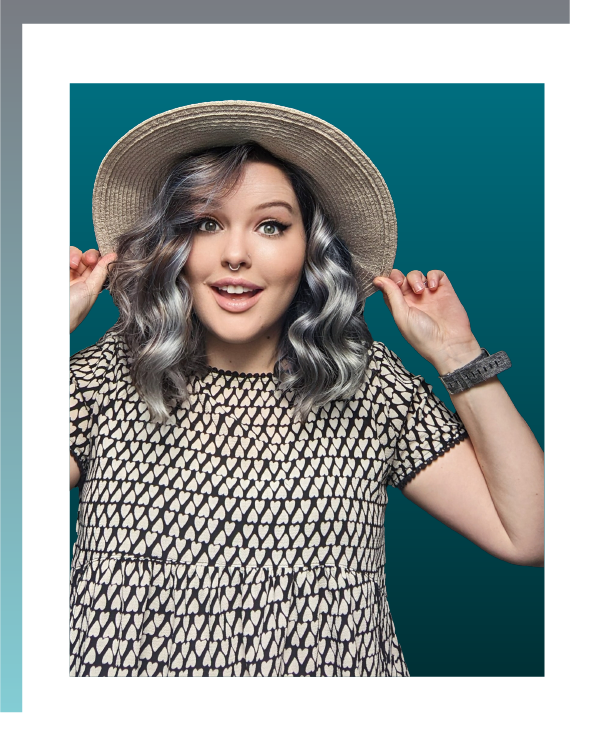
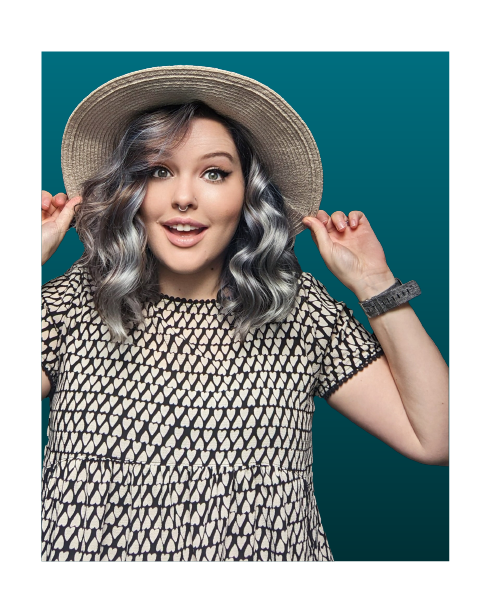
update sizing for better scalability

diff --git a/assets/css/style.css b/assets/css/style.css
@@ -52,7 +52,18 @@ body {
     flex-direction: column;
     justify-content: flex-start;
     align-content: center;
-    min-height: 100vh;
+    width: 100%;
+}
+
+header {
+    width: 100%;
+}
+
+/* navigation bar */
+nav {
+    text-align: right;
+    margin-top: 30px;
+    padding: 5px 125px;
 }
 
 /* navigation bar links */
@@ -66,13 +77,6 @@ a {
 /* link change color with hover */
 a:hover {
     color: var(--mid-color-vibrant);
-}
-
-/* navigation bar */
-nav {
-    text-align: right;
-    margin-top: 30px;
-    padding: 5px 125px;
 }
 
 #nav-toggle {
@@ -90,7 +94,7 @@ nav {
 
 /* bar behind the name and title */
 #header-bar {
-    min-width: 1920px;
+    width: 100%;
     margin: 125px auto;
     height: 260px;
     margin: 25px auto;
@@ -121,6 +125,7 @@ nav {
 #Portfolio-Picture {
     position: relative;
     margin: -380px 20px 10px 55px;
+    box-shadow: -10px -10px var(--mid-color-neutral-transparent);
 }
 
 .info-section-divider {
@@ -132,7 +137,7 @@ nav {
     bottom: 160px;
     left: 725px;
     margin: 0px;
-    width: 1150px;
+    width: 65%;
 }
 
 /* info title font size */
@@ -181,7 +186,7 @@ nav {
     top: 800px;
     left: 80px;
     margin: 0px;
-    width: 1800px;
+    width: 100%;
 }
 
 /* my work card sections */
@@ -224,7 +229,7 @@ nav {
     top: 2440px;
     left: 80px;
     margin: 0px;
-    width: 1800px;
+    width: 100%;
 }
 
 .contact-info {
@@ -258,13 +263,103 @@ footer {
     top: 2800px;
     left: 80px;
     margin: 0px;
-    width: 1800px;
+    width: 100%;
 }
 
 /* media responsive - tablet */
-@media screen and (max-width: 1286px) {
+@media screen and (max-width: 960px) {
 
-    /* menu provided by https://codepen.io/alvarotrigo/pen/yLzaPVJ, https://codepen.io/alvarotrigo */
+    /* navigation bar - adjust for tablet */
+    nav {
+        text-align: center;
+        padding: 4px;
+    }
+
+    /* navigational bar text - adjust for tablet */
+    .nav-item {
+        font-size: var(--tablet-font-size-h3);
+    }
+
+    /* bar behind the name and title - adjust for tablet */
+    #header-bar {
+        width: 100%;
+        text-align: center;
+    }
+
+
+    /* portfolio header name - adjust for tablet */
+    #name {
+        font-size: var(--tablet-font-size-name);
+        margin-left: auto;
+        margin-right: auto;
+        padding-left: 145px;
+    }
+
+    /* title below name -adjust for tablet */
+    #title {
+        font-size: var(--tablet-font-size-h2);
+    }
+
+    /* portfolio picture - adjust for tablet */
+    #Portfolio-Picture {
+        margin:  0px 634px;
+        top: -50px;
+    }
+
+    #about-me {
+        bottom: 800px;
+        left: 300px;
+        right: 300px;
+    }
+
+    /* info title font size - adjust for tablet */
+    .info-title {
+        font-size: var(--tablet-font-size-h2);
+    }
+
+    /* titles for all the info sections - adjust for tablet */
+    .info-title {
+        font-size: var(--tablet-font-size-h2);
+    }
+
+    /* the text in the about me section - adjust for tablet */
+    #about-me-text {
+        font-size: var(--tablet-font-size-body);
+    }
+
+
+    /* my work - adjust for tablet */
+    #my-work {
+        top: 1550px;
+        left: 300px;
+    }
+
+    /* contact me section - adjust for tablet */
+    #contact-me {
+        top: 4330px;
+        left: 300px;
+    }
+
+    .contact-info-link:hover {
+        color: var(--light-color-vibrant);
+    }
+
+    .contact-icon {
+        width: 100px;
+        height: 100px;
+    }
+
+    footer {
+        font-size: var(--tablet-font-size-h3);
+        top: 4800px;
+        left: 80px;
+        margin: 0px;
+    }
+}
+  
+/* media responsive - phone */
+@media screen and (max-width: 480px) {
+        /* menu provided by https://codepen.io/alvarotrigo/pen/yLzaPVJ, https://codepen.io/alvarotrigo */
     #nav-toggle {
         display: block;
         opacity: 0;
@@ -337,109 +432,6 @@ footer {
     .nav-link:hover {
         background-color: var(--white);
     }
-
-    /* navigation bar - adjust for tablet */
-    /*
-    nav {
-        text-align: center;
-        margin-left: auto;
-        margin-right: auto;
-    }
-    */
-
-    /* navigational bar text - adjust for tablet */
-    /*
-    .nav-item {
-        font-size: var(--tablet-font-size-h3);
-    }
-    */
-
-    /* bar behind the name and title - adjust for tablet */
-    #header-bar {
-        width: 100%;
-        text-align: center;
-    }
-
-
-    /* portfolio header name - adjust for tablet */
-    #name {
-        font-size: var(--tablet-font-size-name);
-        margin-left: auto;
-        margin-right: auto;
-        padding-left: 145px;
-    }
-
-    /* title below name -adjust for tablet */
-    #title {
-        font-size: var(--tablet-font-size-h2);
-    }
-
-    /* portfolio picture - adjust for tablet */
-    #Portfolio-Picture {
-        margin:  0px 634px;
-    }
-
-    #about-me {
-        bottom: 800px;
-        left: 300px;
-        right: 300px;
-        width: 1286px;
-    }
-
-    /* info title font size - adjust for tablet */
-    .info-title {
-        font-size: var(--tablet-font-size-h2);
-    }
-
-    /* titles for all the info sections - adjust for tablet */
-    .info-title {
-        font-size: var(--tablet-font-size-h2);
-    }
-
-    /* the text in the about me section - adjust for tablet */
-    #about-me-text {
-        font-size: var(--tablet-font-size-body);
-    }
-
-    /* information sections - adjust for tablet */
-    .info-section {
-        width: 1286px;
-    }
-
-    /* my work - adjust for tablet */
-    #my-work {
-        top: 1550px;
-        left: 300px;
-        width: 1286px;
-    }
-
-    /* contact me section - adjust for tablet */
-    #contact-me {
-        top: 4330px;
-        left: 300px;
-        width: 1286px;
-    }
-
-    .contact-info-link:hover {
-        color: var(--light-color-vibrant);
-    }
-
-    .contact-icon {
-        width: 100px;
-        height: 100px;
-    }
-
-    footer {
-        font-size: var(--tablet-font-size-h3);
-        top: 4800px;
-        left: 80px;
-        margin: 0px;
-        width: 1800px;
-    }
-}
-  
-/* media responsive - phone */
-@media screen and (max-width: 480px) {
 
     /* portfolio header name - mobile size */
     #name {

diff --git a/index.html b/index.html
@@ -45,7 +45,9 @@
                 </h2>
             </div>
 
-            <img src="./assets/images/Portfolio-Picture.png" alt="Sarah Paterson Portrait" id="Portfolio-Picture">
+            <div id="Portfolio-Picture">
+            <img src="./assets/images/Portfolio-Picture.png" alt="Sarah Paterson Portrait" >
+            </div>
 
         </header>
 
